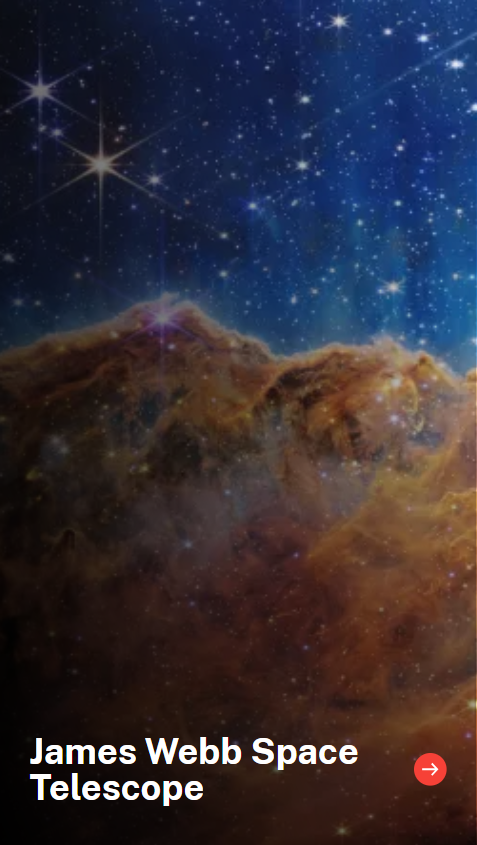
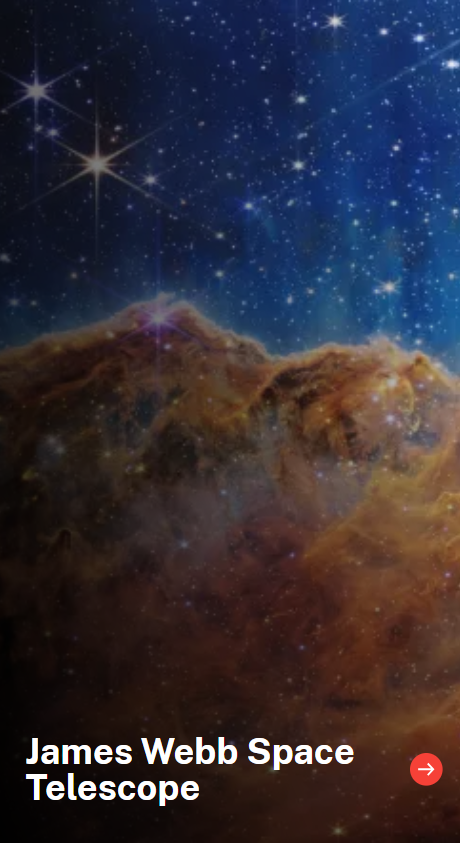
changes to pics and index.js

diff --git a/index.html b/index.html
@@ -33,7 +33,7 @@
         <div id="container">
           <div class="intro">
             <H2>"A long time ago in a galaxy far, far away...."</H2>
-            <img id="milkyWay" src="./assets/milky-way-galaxy-topview_full_990.jpg" alt="Milky Way Galaxy">
+            <img id="milkyWay" src="./assets/milky-way-galaxy-topview_full_990.jpg" alt="Milky Way Galaxy" loading="lazy">
           </div>
           <div class="introText">
             <p>Did you know that our star, the Sun, is just one of hundreds of billions of stars swirling within an enormous cosmic place called the Milky Way Galaxy? The Milky Way is a huge collection of stars, dust and gas. It’s called a spiral galaxy because if you could view it from the top or bottom, it would look like a spinning pinwheel. The Sun is located on one of the spiral arms, about 25,000 light-years away from the center of the galaxy. Even if you could travel at the speed of light (300,000 kilometers, or 186,000 miles, per second), it would take you about 25,000 years to reach the middle of the Milky Way. 
@@ -43,7 +43,7 @@
             </p>
           </div>
           <div class="row">
-            <img id="cigar" src="./assets/m82_cigar.jpg" alt="cigar galaxy" />
+            <img id="cigar" src="./assets/m82_cigar.jpg" alt="cigar galaxy" loading="lazy"/>
             <div>
                 <p><h2>The Cigar Galaxy</h2>
                   M82 Galaxy Messier 82 is a starburst galaxy approximately 12 million
@@ -55,7 +55,7 @@
           </div>
 
           <div class="row">
-            <img id="pinwheel" src="./assets/m101_pinwheel.jpg" alt="pinwheel galaxy" />
+            <img id="pinwheel" src="./assets/m101_pinwheel.jpg" alt="pinwheel galaxy" loading="lazy"/>
             <div>
                 <p><h2>The Pinwheel Galaxy</h2>
                   The Pinwheel Galaxy is a face-on spiral galaxy 21 million light-years
@@ -81,19 +81,12 @@
             </div>
             <div>
               <div class="voyagerSection">
-                <iframe width="560" height="315" src="https://www.youtube.com/embed/aR6oV8kJKf4?si=nFC8m9x02zCc5eiV" referrerpolicy="no-referrer-when-downgrade" title="YouTube video player" frameborder="0" allow="accelerometer; autoplay; clipboard-write; encrypted-media; gyroscope; picture-in-picture; web-share" allowfullscreen></iframe>
+                <iframe width="860" height="315" src="https://www.youtube.com/embed/aR6oV8kJKf4?si=nFC8m9x02zCc5eiV" referrerpolicy="no-referrer-when-downgrade" title="YouTube video player" frameborder="0" allow="accelerometer; autoplay; clipboard-write; encrypted-media; gyroscope; picture-in-picture; web-share" allowfullscreen></iframe>
                 <p id="Voyager">
-                  Of course these galaxies are, well, lightyears away and we will probably never reach them. The furthest man-made object from earth right now is the Voyager 1 probe. If you want to see more information about this incredible spacecraft and its journey, you can pan around yourself in this 360 degree video. And make sure you visit the <a href="https://voyager.jpl.nasa.gov/mission/status/">VOYAGER</a> page on NASA's site. 
+                  Of course these galaxies are, well, lightyears away and we will probably never reach them. The furthest man-made object from earth right now is the Voyager 1 probe. If you want to see more information about this incredible spacecraft and its journey, you can pan around yourself in this 360 degree video. And make sure you visit the <a color: red href="https://voyager.jpl.nasa.gov/mission/status/">VOYAGER</a> page on NASA's site. 
                 </p>
               </div>
             </div>
-
-            <!-- <div class="row">
-                <button type="button" class="button">MEET with other galaxy fans!</button> 
-                <link rel="stylesheet" href="">
-            </div> -->
-            
-            
         </div>
         <div id="apod-box">
           <div id="APOD">
@@ -133,16 +126,16 @@
       </div>
         <div id="nasaImages">
           <p><a href="https://science.nasa.gov/perseverance-rover/">
-              <img class="nasa-image" src="./assets/Perseverance-Rover.png" alt="Perseverance Rover">
+              <img class="nasa-image" src="./assets/Rover-test.png" alt="Perseverance Rover">
           </a></p>
           <p><a href="https://science.nasa.gov/james-webb-space-telescope/">
-              <img class="nasa-image" src="./assets/James-Webb.png" alt="James Webb">
+              <img class="nasa-image" src="./assets/Webb-test.png" alt="James Webb">
           </a></p>
           <p><a href="https://science.nasa.gov/parker-solar-probe/">
-              <img class="nasa-image" src="./assets/Parker-Solar-Probe.png" alt="Parker Solar Probe">
+              <img class="nasa-image" src="./assets/Probe-test.png" alt="Parker Solar Probe">
           </a></p>
           <p><a href="https://science.nasa.gov/juno/">
-              <img class="nasa-image" src="./assets/Juno.png" alt="Juno" onclick="">
+              <img class="nasa-image" src="./assets/juno-test.png" alt="Juno">
           </a></p>
           </div>
       </div>

diff --git a/styles/style.css b/styles/style.css
@@ -16,15 +16,17 @@
     width: 150px;   
 }
 body {
-padding: 0px;
-margin: 0px;
+    padding: 0px;
+    margin: 0px;
+    background-color:#333;
 }
 #container {
-    background-color: whitesmoke;
+    background-color: black;
     height: max-content;
     display: block;
     padding: 0px;
     margin: 0px;
+    font-size: larger;
 }
 .intro {
     display: flex;
@@ -58,85 +60,66 @@ margin: 0px;
 }
 .introText {
     font-family: Arial, Helvetica, sans-serif;
+
     padding: 30px;
     text-align: justify;
 }
 .introText p {
     padding: 20px 20px;
-    color:black;
+    color: whitesmoke;
 }
 .row {
     display: inline-block;
     padding-left: 40px 40px;
     margin: 30px;
     font-family: Arial, Helvetica, sans-serif;
+    color: white;
     text-align: justify;
 }
 .row img{
     width: 50dvw;
     height: 60dvh;
     border-radius: 10px;
-    margin: 0px 30px;
+    margin: 5% 30px;
     float: left;
-    box-shadow: 3px 3px 10px rgba(0, 0, 0, 0.3);
+    box-shadow: 3px 3px 3px rgba(255, 255, 255, 0.3), -3px -3px -3px rgba(255, 255, 255, 0.3);
+    
 }
-.row p{
+.row p {
     padding: 20px;
     margin-top: 8%;
-    color:black;
 }
-/* The overlay effect - lays on top of the container and over the image */
-.overlay {
-    position: absolute;
-    bottom: 0;
-    background: rgb(0, 0, 0);
-    background: rgba(0, 0, 0, 0.5); /* Black see-through */
-    color: #f1f1f1;
-    width: 100%;
-    transition: .5s ease;
-    opacity:0;
-    color: white;
-    font-size: 20px;
-    padding: 20px;
-    text-align: center;
-  }
-  
-  /* When you mouse over the container, fade in the overlay title */
-  .row:hover .overlay {
-    opacity: 1;
-  }
 h2 {
     padding-top: 10px;
+    color: whitesmoke;
 }
 .voyagerSection {
     display: flex;
     flex-direction: row-reverse;
     justify-content: center;
-    margin: 30px;
+
     padding: 40px;
 }
 .voyagerSection p {
     margin: 30px;
     font-family: Arial, Helvetica, sans-serif;
+    color: whitesmoke;
 }
 #apod-box {
  display: flex;
  height: max-content;
  width: 100%;
- margin-bottom: 40px;
 }
 #APOD {
  color: rgb(44, 44, 44);
  font-family: Verdana, Geneva, Tahoma, sans-serif;
  background-color: whitesmoke ;
  width: 100%;
- margin-top: 0px;
-padding-bottom: 50px;
+padding-bottom: 5%;
 }
 #boxTitle {
     text-align: center;
     padding: 30px;
-
 }
 #apod-image {
     display: block;
@@ -193,7 +176,6 @@ H3 {
     cursor: pointer;
 }
 #apod-box button:hover {
-
     box-shadow: 0 0 11px rgba(33,33,33,.2); 
 }
 .modal {
@@ -213,7 +195,6 @@ H3 {
     animation-name: fadeIn;
     animation-duration: 0.4s
 }
-
 .modal-content {
     background-color: rgba(255, 255, 255, 0.5);
     padding: 20px;
@@ -227,8 +208,6 @@ H3 {
     animation-name: slideIn;
     animation-duration: 0.4s
 }
-
-
 .close {
     position: absolute;
     top: 20px;
@@ -237,7 +216,6 @@ H3 {
     cursor: pointer;
     color: white;
 }
-
 /* Style the APOD modal container */
 #apod-modal-container {
     max-width: 90%;
@@ -247,7 +225,6 @@ H3 {
     text-align: center;
     background-color: white;
 }
-/* Style the image within the modal */
 #apod-modal-image {
     max-width: 70%;
     height: auto;
@@ -277,6 +254,7 @@ H3 {
 }
 #nasaResources {
     background-color: white;
+    padding-bottom: 50px;
 }
 #nasaText {
     display: flex;
@@ -287,6 +265,7 @@ H3 {
 }
 #nasaText H2 {
     margin: 0px;
+    color: black
 }
 #nasaImages {
     display: flex;
@@ -300,7 +279,7 @@ H3 {
     cursor: pointer;
 }
 footer {
-    color: #404040;
+    color: antiquewhite;
     margin-top: 30px;
     height: 30px;
     display: block;
